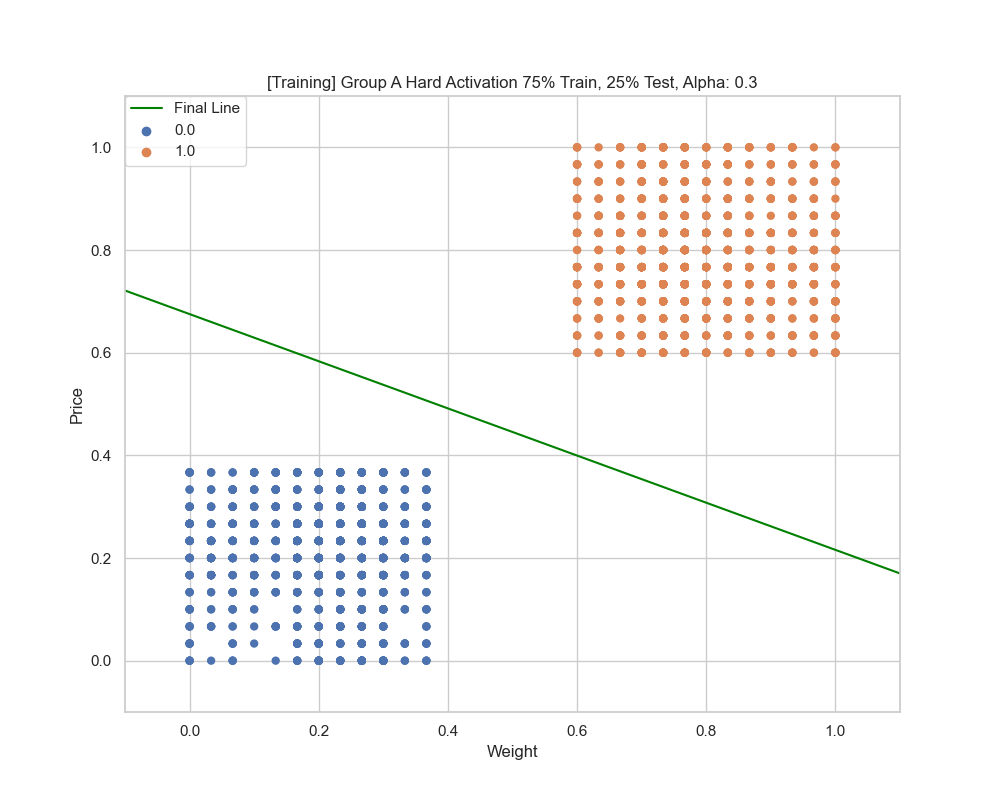
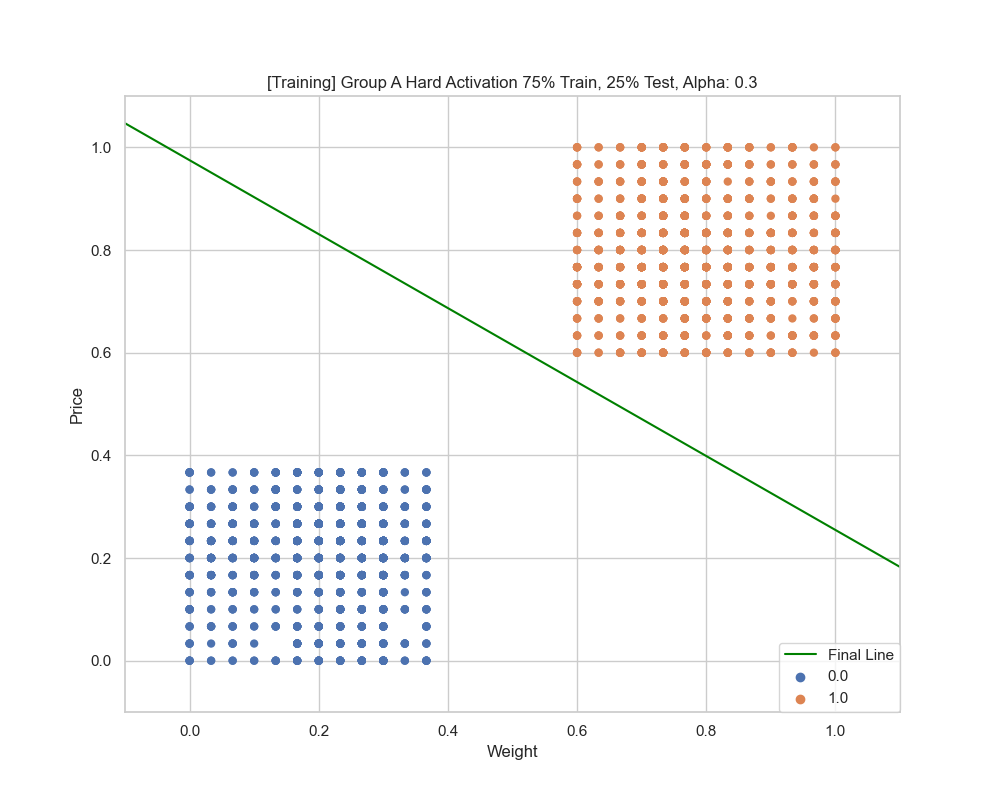
missed 1

diff --git a/assignment2.py b/assignment2.py
@@ -310,7 +310,7 @@ def confusion_matrix(title, predicted, actual):
 groupa_hard_75, groupa_hard_75_train, groupa_hard_75_test, groupa_hard_75_out, train, test = normalize_and_train_hard(
     "Group A", df_a, 0.3, epsilon_a, max_iterations, .25)
 groupa_hard_25, groupa_hard_25_train, groupa_hard_25_test, groupa_hard_25_out, train, test = normalize_and_train_hard(
-    "Group A", df_a, 0.3, epsilon_a, max_iterations, .25)
+    "Group A", df_a, 0.3, epsilon_a, max_iterations, .75)
 pred, testOut = test_hard(
     groupa_hard_75, groupa_hard_75_test, groupa_hard_75_out)
 graph_results("[Training] Group A Hard Activation 75% Train, 25% Test, Alpha: 0.3",
